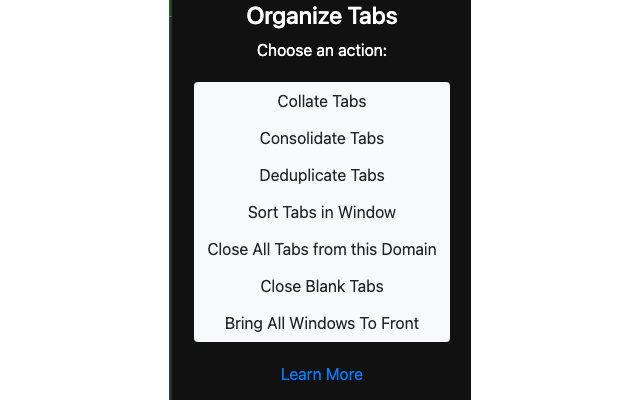
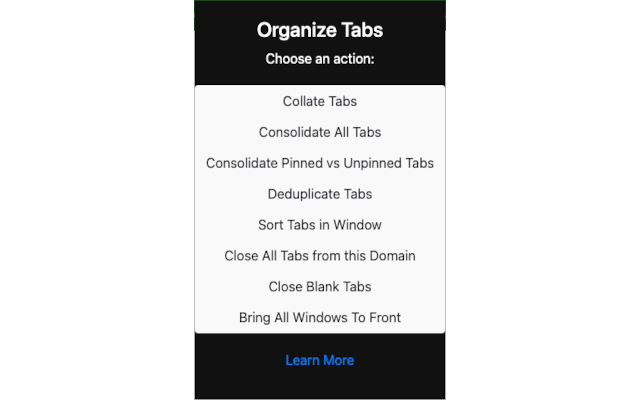
Consolidate All vs Pinned Tabs (#7)
* Splits "Consolidate Tabs" into "Consolidate All Tabs" and "Consolidate Pinned vs Unpinned Tabs"
* New actions "Consolidate All Tabs" and "Consolidate Pinned vs Unpinned Tabs"
* Converts callbacks into Manifest V3-style Promises
* Discovered Chromium bug when moving pinned tabs (https://bugs.chromium.org/p/chromium/issues/detail?id=876460&q=chrome.tabs.move&can=2)
* New screenshot
* v0.7.0 "Consolidate All Tabs" and "Consolidate Pinned vs Unpinned Tabs"

Changed region(s): [[0.25, 0.0, 0.75, 1.0], [0.4062, 0.3, 0.625, 0.36], [0.4062, 0.69, 0.5938, 0.75]]

diff --git a/src/js/popup.js b/src/js/popup.js
@@ -8,8 +8,10 @@ $(function () {
 
     var NUM_WINDOWS = null;
     var NUM_WINDOWS_WITH_RESOLVED_TABS = null;
+    var PINNED_TABS = [];
     var WINDOW_TABS = {};
     var BUCKETS = {};
+    var HOUSEKEEPING_DONE = false;
 
     // ----- OPTIONS --------------------
 
@@ -21,8 +23,12 @@ $(function () {
     function resetVariables() {
         NUM_WINDOWS = 0;
         NUM_WINDOWS_WITH_RESOLVED_TABS = 0;
+
+        PINNED_TABS = [];
         WINDOW_TABS = {};
         BUCKETS = {};
+
+        HOUSEKEEPING_DONE = false;
     }
 
     function collateTabs() {
@@ -70,13 +76,17 @@ $(function () {
                 ]);
 
                 // Create a new window and move tabs over
-                moveTabsToNewWindow(orderedTabs, closeBlankTabs);
+                moveTabsToNewWindow(orderedTabs).then(function (movedTabs) {
+                    closeBlankTabs();
+                });
             }
         });
 
         // Create a new window for single tabs, and move over, and include a callback
         // to close old windows
-        moveTabsToNewWindow(singleTabs, closeBlankTabs);
+        moveTabsToNewWindow(singleTabs).then(function (movedTabs) {
+            closeBlankTabs();
+        });
     }
 
     function consolidateTabs() {
@@ -89,12 +99,13 @@ $(function () {
 
         var combinedTabs = [];
 
-        // Build buckets of tabs keyed by hostname
-        _.forEach(_.keys(WINDOW_TABS), function (windowId) {
+        // Combine unpinned tabs for all windows, ordered by `windowId`
+        _.forEach(_.sortedUniq(_.keys(WINDOW_TABS)), function (windowId) {
             var tabs = WINDOW_TABS[windowId];
             _.forEach(tabs, function (tab) {
                 var match = HOST_REGEX.exec(tab.url);
                 if (match) {
+                    // include tabs with actual webpages
                     combinedTabs.push(tab);
                 } else {
                     // skip non-matching URLS, e.g. chrome://newtab/
@@ -102,31 +113,44 @@ $(function () {
             });
         });
 
-        // Sort tabs by URL
-        var orderedTabs = _.sortBy(combinedTabs, [
+        // Sort unpinned tabs by URL
+        var orderedCombinedTabs = _.sortBy(combinedTabs, [
             function (tab) {
                 return tab.url;
             }
         ]);
 
+        // Combine pinned tabs with unpinned tabs
+        var orderedTabs = _.concat(PINNED_TABS, orderedCombinedTabs);
+
         // Create a new window and move tabs over
-        moveTabsToNewWindow(orderedTabs, closeBlankTabs);
+        moveTabsToNewWindow(orderedTabs)
+            .then(function (movedTabs) {
+                return closeBlankTabs();
+            })
+            .then(function (closedTabs) {
+                repinTabs();
+            });
     }
 
-    function moveTabsToNewWindow(tabs, callback) {
+    function moveTabsToNewWindow(tabs) {
         var tabIds = _.map(tabs, function (tab) {
             return tab.id;
         });
 
         // https://developer.chrome.com/extensions/windows#method-create
         var createData = {};
-        chrome.windows.create(createData, function (window) {
+        return chrome.windows.create(createData).then(function (window) {
             // https://developer.chrome.com/extensions/tabs#method-move
             var moveProperties = {
                 windowId: window.id,
                 index: -1
             };
-            chrome.tabs.move(tabIds, moveProperties, callback);
+
+            // Open bug in Chromium: https://bugs.chromium.org/p/chromium/issues/detail?id=876460&q=chrome.tabs.move&can=2
+            // When moving pinned tabs via API, it becomes unpinned.
+            // Also, when `tabIds` includes pinned tabs, the promise/callback fails to complete
+            return chrome.tabs.move(tabIds, moveProperties);
         });
     }
 
@@ -186,11 +210,21 @@ $(function () {
         chrome.windows.getAll(getInfo, callback);
     }
 
+    function repinTabs() {
+        // re-pin moved tabs that were previously pinned
+        // https://developer.chrome.com/docs/extensions/reference/tabs/#method-update
+        return Promise.all(
+            _.map(PINNED_TABS, function (tab) {
+                return chrome.tabs.update(tab.id, { pinned: true });
+            })
+        );
+    }
+
     function closeDomainTabs() {
         // https://developer.chrome.com/docs/extensions/reference/tabs/#get-the-current-tab
 
         var queryOptions = { active: true, currentWindow: true };
-        chrome.tabs.query(queryOptions, function (tabs) {
+        return chrome.tabs.query(queryOptions, function (tabs) {
             var tab = tabs[0];
             var match = HOST_REGEX.exec(tab.url);
             if (match) {
@@ -205,11 +239,11 @@ $(function () {
         var queryInfo = {
             url: NEW_TAB_URL
         };
-        chrome.tabs.query(queryInfo, function (tabs) {
+        return chrome.tabs.query(queryInfo).then(function (tabs) {
             var tabIds = _.map(tabs, function (tab) {
                 return tab.id;
             });
-            chrome.tabs.remove(tabIds);
+            return chrome.tabs.remove(tabIds);
         });
     }
 
@@ -240,7 +274,22 @@ $(function () {
         chrome.windows.getAll(getInfo, callback);
     }
 
-    function handleConsolidateTabsClicked() {
+    function handleConsolidateAllTabsClicked() {
+        resetVariables();
+
+        // https://developer.chrome.com/extensions/windows#method-getAll
+        var getInfo = {
+            populate: true,
+            windowTypes: ['normal']
+        };
+        var callback = getWindowsCallbackFactory({
+            consolidate: true,
+            allTabs: true
+        });
+        chrome.windows.getAll(getInfo, callback);
+    }
+
+    function handleConsolidatePinnedTabsClicked() {
         resetVariables();
 
         // https://developer.chrome.com/extensions/windows#method-getAll
@@ -269,11 +318,12 @@ $(function () {
     }
 
     function handleCloseBlankTabsClicked() {
-        console.log('whee');
         closeBlankTabs();
     }
 
     function handleFocusAllWindowsClicked() {
+        // TODO: unused?
+
         // Move all windows in session to the front
         //
         // https://developer.chrome.com/extensions/windows#method-getAll
@@ -282,7 +332,6 @@ $(function () {
             populate: false,
             windowTypes: ['normal', 'popup']
         };
-        console.log('hey');
 
         chrome.windows.getAll(getInfo, function (windows) {
             var leftOffset = 40;
@@ -349,6 +398,9 @@ $(function () {
                 return false;
             } else {
                 // store tabs for further processing
+                if (cfg.allTabs) {
+                    PINNED_TABS = _.concat(PINNED_TABS, pinnedTabs);
+                }
                 WINDOW_TABS[window.id] = unpinnedTabs;
             }
 
@@ -370,7 +422,8 @@ $(function () {
 
     function initEventHandlers() {
         $('.collate-tabs').click(handleCollateTabsClicked);
-        $('.consolidate-tabs').click(handleConsolidateTabsClicked);
+        $('.consolidate-pinned-tabs').click(handleConsolidatePinnedTabsClicked);
+        $('.consolidate-all-tabs').click(handleConsolidateAllTabsClicked);
         $('.deduplicate-tabs').click(handleDeduplicateTabsClicked);
         $('.sort-window-tabs').click(handleSortWindowTabsClicked);
         $('.close-domain-tabs').click(handleCloseDomainTabsClicked);

diff --git a/src/popup.html b/src/popup.html
@@ -33,7 +33,8 @@
     <div style="padding: 20px 0px;">
       <div class="btn-group-vertical">
         <a class="btn btn-light collate-tabs" href="javascript:void(0);">Collate Tabs</a>
-        <a class="btn btn-light consolidate-tabs" href="javascript:void(0);">Consolidate Tabs</a>
+        <a class="btn btn-light consolidate-all-tabs" href="javascript:void(0);">Consolidate All Tabs</a>
+        <a class="btn btn-light consolidate-pinned-tabs" href="javascript:void(0);">Consolidate Pinned vs Unpinned Tabs</a>
         <a class="btn btn-light deduplicate-tabs" href="javascript:void(0);">Deduplicate Tabs</a>
         <a class="btn btn-light sort-window-tabs" href="javascript:void(0);">Sort Tabs in Window</a>
         <a class="btn btn-light close-domain-tabs" href="javascript:void(0);">Close All Tabs from this Domain</a>
